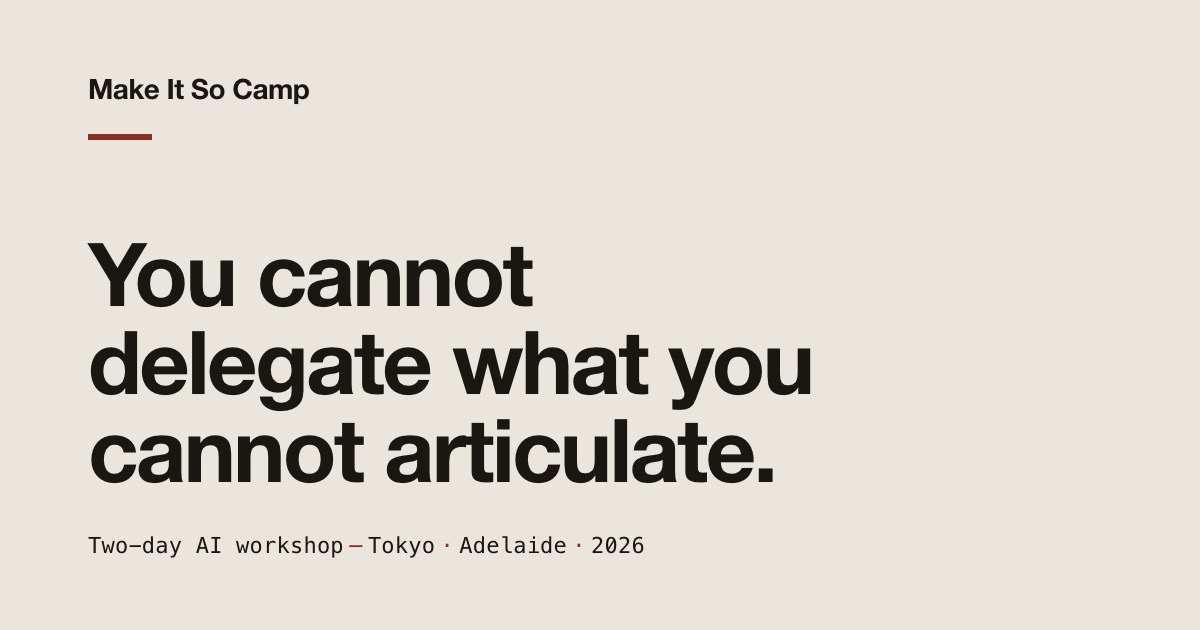
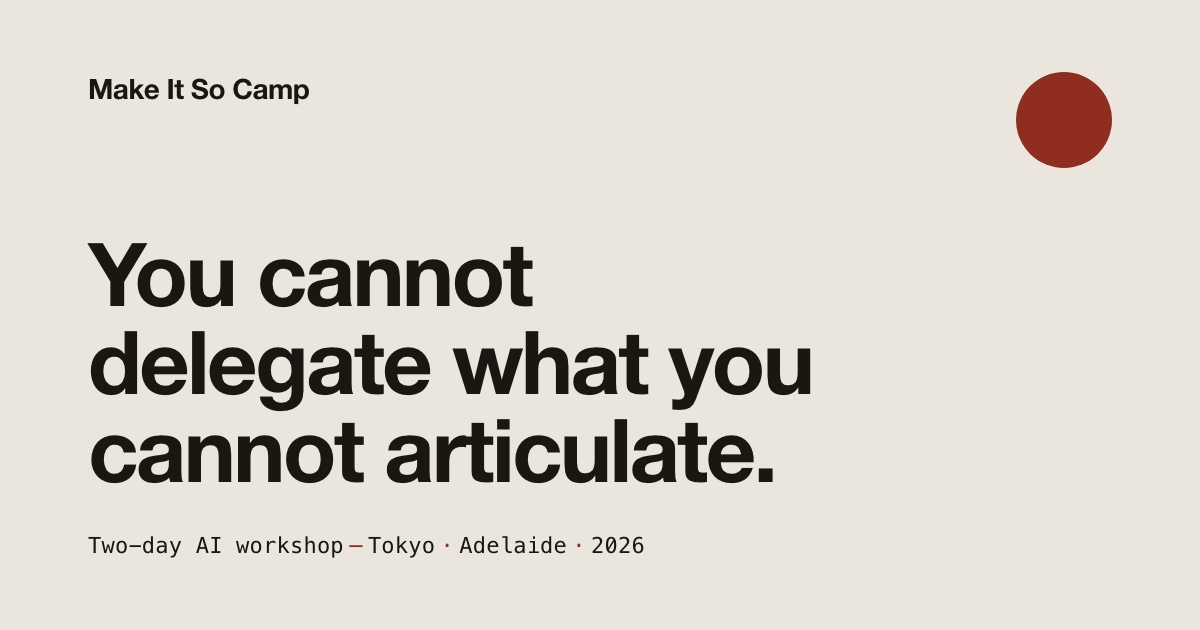
design: og card v2 — terracotta circle accent
Claude-Session: https://claude.ai/code/session_01KoxmwCFSg6EqZ9nHWABm3Y

Changed region(s): [[0.8325, 0.0905, 0.925, 0.2714], [0.0617, 0.2111, 0.1233, 0.2413]]

diff --git a/assets/og-src.html b/assets/og-src.html
@@ -19,7 +19,13 @@
     body { width:1200px; height:630px; position:relative; overflow:hidden; -webkit-font-smoothing:antialiased; text-rendering:optimizeLegibility; }
     .card { position:absolute; inset:0; padding:72px 88px; display:flex; flex-direction:column; }
     .brand { font-weight:700; font-size:28px; letter-spacing:-0.02em; }
-    .accent-rule { width:64px; height:6px; background:var(--accent); margin-top:28px; }
+    .accent-circle {
+      position:absolute;
+      top:72px; right:88px;
+      width:96px; height:96px;
+      border-radius:50%;
+      background:var(--accent);
+    }
     .statement {
       font-weight:700;
       font-size:88px;
@@ -42,7 +48,7 @@
 <body>
   <div class="card">
     <div class="brand">Make It So Camp</div>
-    <div class="accent-rule"></div>
+    <div class="accent-circle"></div>
     <div class="statement">You cannot delegate what you cannot articulate.</div>
     <div class="footnote">Two-day AI workshop<span class="dot">—</span>Tokyo<span class="dot">·</span>Adelaide<span class="dot">·</span>2026</div>
   </div>